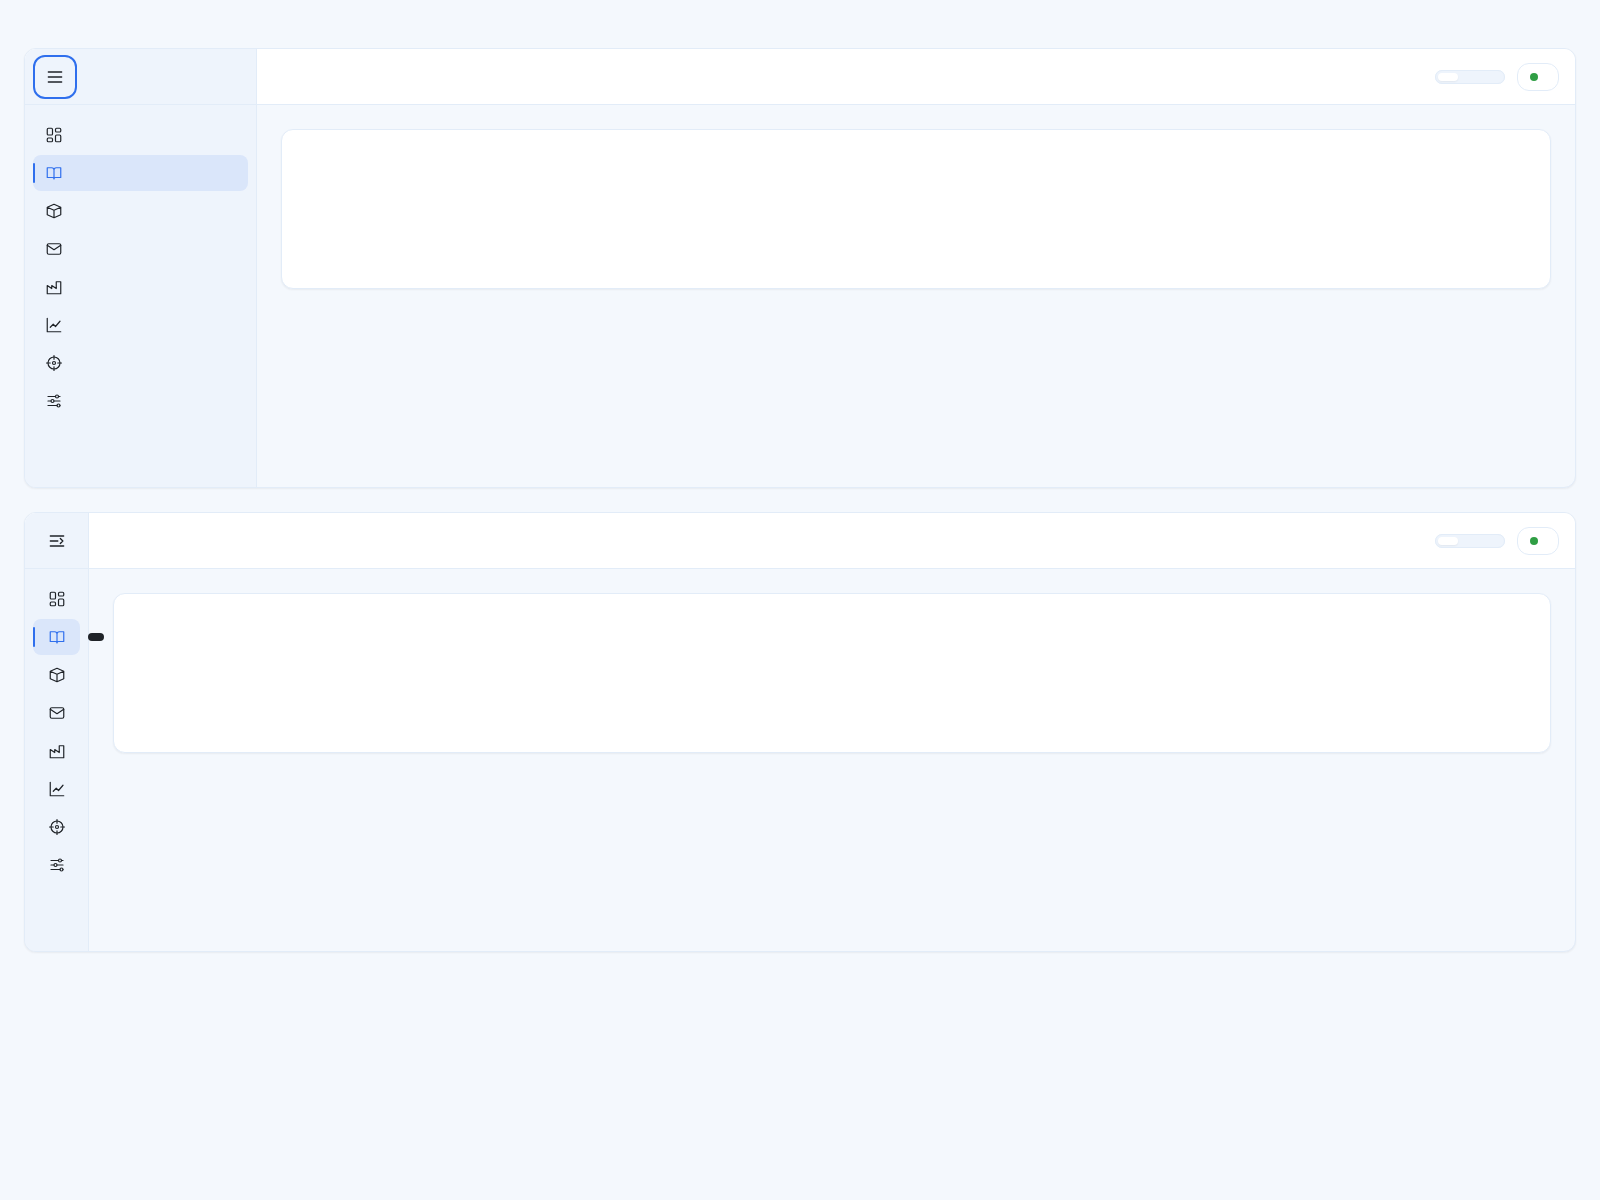
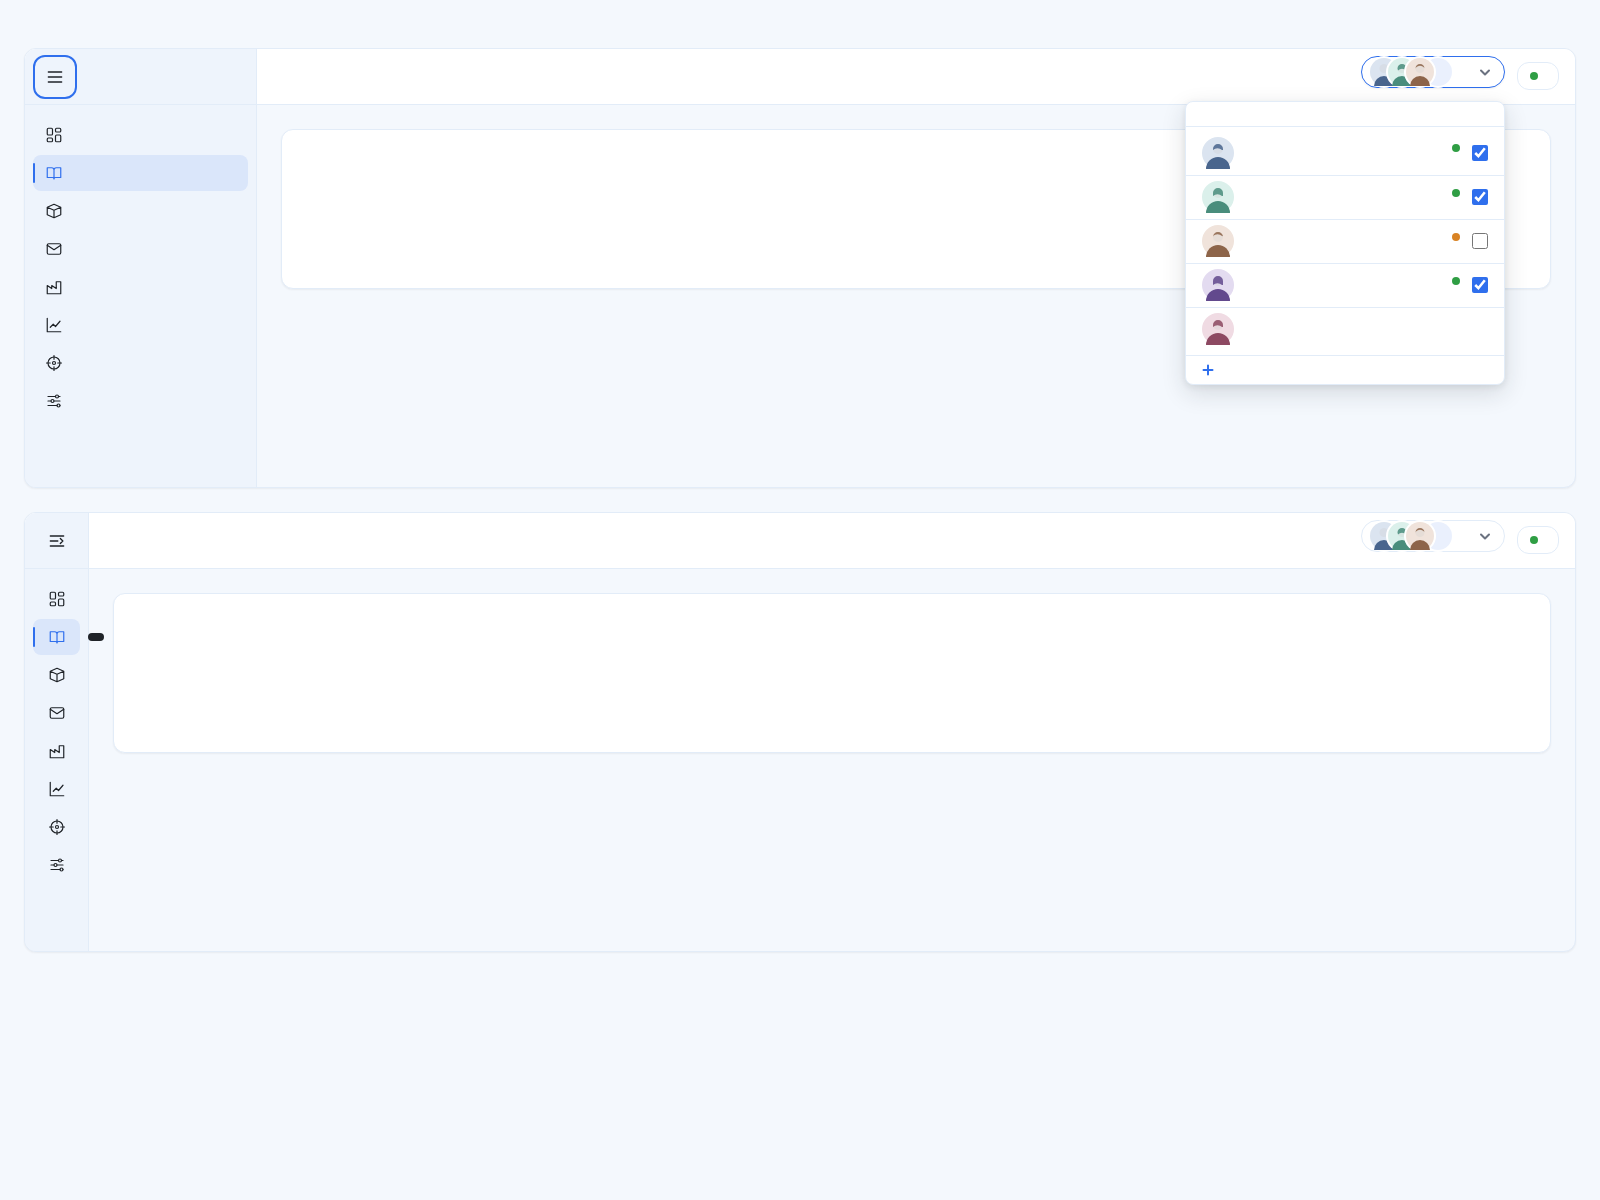
docs(design): character switcher with portraits in the light shell

diff --git a/docs/design/occc/app-shell.html b/docs/design/occc/app-shell.html
@@ -3,7 +3,7 @@
 <head>
 <meta charset="utf-8">
 <meta name="viewport" content="width=device-width, initial-scale=1">
-<title>OCCC · Application shell (s5-t1)</title>
+<title>OCCC · Application shell (s6-t1)</title>
 <!-- Light theme only, per owner (s5-t1). Custom properties mirror proposed token names; new ones are listed in the handoff. -->
 <style>
 :root{
@@ -15,6 +15,7 @@
   --color-primary-bg:color-mix(in srgb,var(--color-primary) 10%,transparent);
   --color-primary-bg-hover:color-mix(in srgb,var(--color-primary) 6%,transparent);
   --shadow-sm:0 1px 2px rgba(31,35,40,.06);
+  --shadow-panel:0 8px 24px rgba(31,35,40,.14),0 2px 6px rgba(31,35,40,.08);
   --radius-sm:4px; --radius-md:8px; --radius-lg:12px;
   --space-xxs:4px; --space-xs:8px; --space-sm:12px; --space-md:16px; --space-lg:24px; --space-xl:32px;
   --font-family:'Inter',system-ui,-apple-system,'Segoe UI',sans-serif;
@@ -49,17 +50,72 @@ body{margin:0;padding:var(--space-lg);background:var(--color-bg-layout);color:va
 .page-title{margin:0;font-size:16px;font-weight:600}
 .topbar-end{margin-left:auto;display:flex;align-items:center;gap:var(--space-sm)}
 
-.seg{display:inline-flex;gap:2px;margin:0;padding:2px;border:1px solid var(--color-border);border-radius:var(--radius-md);background:var(--color-bg-rail)}
-.seg input{position:absolute;opacity:0;width:1px;height:1px}
-.seg label{padding:var(--space-xxs) 10px;border-radius:var(--radius-sm);font-size:13px;font-weight:500;
-  color:var(--color-text-secondary);cursor:pointer;transition:background var(--motion-fast),color var(--motion-fast)}
-.seg label:hover{color:var(--color-primary-hover)}
-.seg input:checked+label{background:var(--color-bg-container);color:var(--color-text);box-shadow:var(--shadow-sm)}
-.seg input:focus-visible+label{outline:2px solid var(--color-primary);outline-offset:1px}
-
 .sync{display:inline-flex;align-items:center;gap:var(--space-xs);height:28px;padding:0 var(--space-sm);
   border:1px solid var(--color-border);border-radius:var(--radius-lg);background:var(--color-bg-container);font-size:13px}
 .sync-dot{width:8px;height:8px;border-radius:50%;background:var(--color-skill-learned)}
+
+/* Character switcher — button, portrait stack, panel */
+.cs{position:relative}
+.cs-btn{display:inline-flex;align-items:center;gap:var(--space-sm);height:32px;padding:0 var(--space-sm) 0 4px;
+  border:1px solid var(--color-border);border-radius:999px;background:var(--color-bg-container);cursor:pointer;
+  font:500 13px/1 var(--font-family);color:var(--color-text);transition:border-color var(--motion-fast)}
+.cs-btn:hover{border-color:var(--color-primary)}
+.cs-btn[aria-expanded="true"]{border-color:var(--color-primary);box-shadow:var(--shadow-sm)}
+.cs-stack{display:inline-flex;padding-left:4px}
+.cs-portrait{position:relative;width:28px;height:28px;border-radius:50%;flex:none;
+  background:var(--color-bg-container);box-shadow:0 0 0 2px var(--color-bg-container)}
+.cs-portrait svg{display:block;width:100%;height:100%}
+.cs-portrait+.cs-portrait{margin-left:-10px}
+.cs-overflow{display:inline-grid;place-items:center;height:28px;min-width:28px;margin-left:-10px;padding:0 7px;
+  border-radius:999px;background:var(--color-primary-bg);box-shadow:0 0 0 2px var(--color-bg-container);
+  color:var(--color-primary);font-size:11px;font-weight:600}
+.cs-label{display:inline-flex;flex-direction:column;line-height:1.25;text-align:left}
+.cs-scope{white-space:nowrap}
+.cs-scope .ru{font-weight:400}
+.cs-scope--subset .ru{color:var(--color-text)}
+.cs-count{display:block;color:var(--color-text-secondary);font-weight:400;font-size:11px}
+.cs-caret{width:14px;height:14px;stroke:var(--color-text-secondary);margin-left:2px}
+.cs-panel{position:absolute;top:calc(100% + var(--space-xxs));right:0;z-index:5;width:320px;
+  background:var(--color-bg-container);border:1px solid var(--color-border);border-radius:var(--radius-md);
+  box-shadow:var(--shadow-panel)}
+.cs-head{display:flex;align-items:baseline;gap:var(--space-xs);padding:var(--space-sm) var(--space-md);
+  border-bottom:1px solid var(--color-border);font-size:13px}
+.cs-head-title{font-weight:600;margin-right:auto}
+.cs-act{border:0;background:transparent;padding:0;font:500 13px/1.4 var(--font-family);color:var(--color-primary);
+  cursor:pointer;border-radius:var(--radius-sm)}
+.cs-act:hover{color:var(--color-primary-hover);text-decoration:underline}
+.cs-list{list-style:none;margin:0;padding:var(--space-xxs) 0}
+.cs-row{display:flex;align-items:center;gap:var(--space-sm);padding:var(--space-xxs) var(--space-md);min-height:44px}
+.cs-row+.cs-row{border-top:1px solid var(--color-border)}
+.cs-row .cs-portrait{width:32px;height:32px}
+.cs-name{margin-right:auto}
+.cs-row-name{font-weight:500;color:var(--color-text);line-height:1.3}
+.cs-row-corp{font-size:12px;color:var(--color-text-secondary)}
+.cs-row-state{position:relative;display:inline-block;flex:none}
+.cs-row-state::before{content:"";display:inline-block;width:8px;height:8px;border-radius:50%;background:var(--color-skill-learned)}
+.cs-row[data-character-state="stale"] .cs-row-state::before{background:var(--color-skill-next)}
+.cs-row[data-character-state="no-access"] .cs-row-state::before{background:var(--color-skill-unreachable)}
+.cs-row[data-character-state="no-access"] .cs-row-name{color:var(--color-text-secondary)}
+.cs-reason{margin-right:auto;padding-top:2px}
+.cs-reason code{font-family:var(--font-mono);font-size:11px;color:var(--color-skill-unreachable);word-break:break-all}
+.cs-grant{border:0;background:transparent;padding:0;font:500 13px/1.4 var(--font-family);color:var(--color-primary);
+  cursor:pointer;border-radius:var(--radius-sm)}
+.cs-grant:hover{color:var(--color-primary-hover);text-decoration:underline}
+.cs-check{display:inline-grid;place-items:center;width:16px;height:16px;flex:none}
+.cs-check input{margin:0;width:16px;height:16px;accent-color:var(--color-primary);cursor:pointer}
+.cs-check--disabled input{cursor:not-allowed;opacity:.5}
+.cs-foot{display:flex;justify-content:flex-start;padding:var(--space-xs) var(--space-md);border-top:1px solid var(--color-border)}
+.cs-add{display:inline-flex;align-items:center;gap:var(--space-xxs);border:0;background:transparent;padding:0;
+  font:500 13px/1.4 var(--font-family);color:var(--color-primary);cursor:pointer;border-radius:var(--radius-sm)}
+.cs-add:hover{color:var(--color-primary-hover);text-decoration:underline}
+.cs-add svg{width:12px;height:12px}
+
+/* Portraits — inline SVG, two tones of one hue, deterministic per character */
+.p-avatar{border-radius:50%;overflow:hidden}
+.p-bg{fill:var(--p-bg)}
+.p-fg{fill:var(--p-fg)}
+.p-hair{fill:var(--p-fg);opacity:.85}
+.p-skin{fill:color-mix(in srgb,var(--p-fg) 22%,#fff)}
 
 .rail{background:var(--color-bg-rail);border-right:1px solid var(--color-border);padding:var(--space-sm) var(--space-xs)}
 .rail ul{list-style:none;margin:0;padding:0;display:flex;flex-direction:column;gap:2px}
@@ -102,11 +158,13 @@ body{margin:0;padding:var(--space-lg);background:var(--color-bg-layout);color:va
   </defs>
 </svg>
 <style>svg use{fill:none;stroke:currentColor;stroke-width:1.6;stroke-linecap:round;stroke-linejoin:round}
-.burger svg,.nav-item svg{fill:none;stroke:currentColor;stroke-width:1.6;stroke-linecap:round;stroke-linejoin:round}</style>
+.burger svg,.nav-item svg{fill:none;stroke:currentColor;stroke-width:1.6;stroke-linecap:round;stroke-linejoin:round}
+.cs-caret{fill:none;stroke-linecap:round;stroke-linejoin:round;stroke-width:2}
+.cs-add svg{stroke:currentColor;stroke-width:2;stroke-linecap:round;stroke-linejoin:round;fill:none}</style>
 
 <h1 class="spec-title">Application shell · Оболочка приложения</h1>
 
-<p class="caption">1 · data-nav="expanded" — 232 px rail, burger shown with its focus ring</p>
+<p class="caption">1 · data-nav="expanded" — 232 px rail, burger shown with its focus ring, switcher open on the character panel</p>
 <div class="shell" data-component="AppShell">
   <header class="topbar" data-component="TopBar">
     <div class="brand">
@@ -116,12 +174,78 @@ body{margin:0;padding:var(--space-lg);background:var(--color-bg-layout);color:va
     </div>
     <h2 class="page-title">Skill plan · <span class="ru" lang="ru">План обучения</span></h2>
     <div class="topbar-end">
-      <fieldset class="seg" data-component="CharacterSwitcher">
-        <legend class="sr-only">Characters · <span lang="ru">Персонажи</span></legend>
-        <input type="radio" id="cs1-all" name="cs1" checked><label for="cs1-all">All · <span lang="ru">Все</span></label>
-        <input type="radio" id="cs1-sub" name="cs1"><label for="cs1-sub">Subset · <span lang="ru">Выбор</span></label>
-        <input type="radio" id="cs1-one" name="cs1"><label for="cs1-one">One · <span lang="ru">Один</span></label>
-      </fieldset>
+      <div class="cs" data-component="CharacterSwitcher">
+        <button class="cs-btn" type="button" aria-expanded="true" aria-controls="cs-panel-1">
+          <span class="cs-stack" aria-hidden="true">
+            <span class="cs-portrait"><svg data-component="CharacterPortrait" data-portrait="Kadir Aylin" viewBox="0 0 28 28" style="--p-bg:#dbe4f0;--p-fg:#49658d"><circle class="p-bg" cx="14" cy="14" r="14"/><path class="p-fg" d="M4 28a10 10 0 0 1 20 0z"/><circle class="p-skin" cx="14" cy="10.5" r="4.5"/></svg></span>
+            <span class="cs-portrait"><svg data-component="CharacterPortrait" data-portrait="Saya Okamoto" viewBox="0 0 28 28" style="--p-bg:#dbf0eb;--p-fg:#498d7c"><circle class="p-bg" cx="14" cy="14" r="14"/><path class="p-fg" d="M4 28a10 10 0 0 1 20 0z"/><circle class="p-skin" cx="14" cy="10.5" r="4.5"/><path class="p-hair" d="M9.5 10.5a4.5 4.5 0 0 1 9 0v2H18a5.5 5.5 0 0 0-8 0z"/></svg></span>
+            <span class="cs-portrait"><svg data-component="CharacterPortrait" data-portrait="Marcus Vane" viewBox="0 0 28 28" style="--p-bg:#f0e3db;--p-fg:#8d6449"><circle class="p-bg" cx="14" cy="14" r="14"/><path class="p-fg" d="M4 28a10 10 0 0 1 20 0z"/><circle class="p-skin" cx="14" cy="10.5" r="4.5"/><path class="p-hair" d="M9.5 10.5a4.5 4.5 0 0 1 9 0v-1H18a5.5 5.5 0 0 0-8 0z"/></svg></span>
+            <span class="cs-overflow num" aria-hidden="true">+2</span>
+          </span>
+          <span class="cs-label">
+            <span class="cs-scope">All characters · <span class="ru" lang="ru">Все персонажи</span></span>
+            <span class="cs-count num" aria-hidden="true">5 of 5</span>
+          </span>
+          <svg class="cs-caret" viewBox="0 0 14 14" aria-hidden="true"><path d="M3 5.5 7 9.5l4-4"/></svg>
+        </button>
+        <div class="cs-panel" id="cs-panel-1" role="group" aria-label="Characters · Персонажи">
+          <div class="cs-head">
+            <span class="cs-head-title">Characters · <span class="ru" lang="ru">Персонажи</span></span>
+            <button class="cs-act" type="button">all</button>
+            <button class="cs-act" type="button">none</button>
+          </div>
+          <ul class="cs-list">
+            <li class="cs-row" data-component="CharacterRow" data-character-state="synced">
+              <span class="cs-portrait"><svg data-component="CharacterPortrait" data-portrait="Kadir Aylin" viewBox="0 0 32 32" style="--p-bg:#dbe4f0;--p-fg:#49658d"><circle class="p-bg" cx="16" cy="16" r="16"/><path class="p-fg" d="M4 32a12 12 0 0 1 24 0z"/><circle class="p-skin" cx="16" cy="12" r="5"/><path class="p-hair" d="M11 12a5 5 0 0 1 10 0v1H20a6.5 6.5 0 0 0-9 0z"/></svg></span>
+              <span class="cs-name">
+                <span class="cs-row-name">Kadir Aylin</span>
+                <span class="cs-row-corp">KAD</span>
+              </span>
+              <span class="cs-row-state" title="synced · синхронизирован" aria-hidden="true"></span>
+              <span class="cs-check"><input type="checkbox" aria-label="Select Kadir Aylin" checked></span>
+            </li>
+            <li class="cs-row" data-component="CharacterRow" data-character-state="synced">
+              <span class="cs-portrait"><svg data-component="CharacterPortrait" data-portrait="Saya Okamoto" viewBox="0 0 32 32" style="--p-bg:#dbf0eb;--p-fg:#498d7c"><circle class="p-bg" cx="16" cy="16" r="16"/><path class="p-fg" d="M4 32a12 12 0 0 1 24 0z"/><circle class="p-skin" cx="16" cy="12" r="5"/><path class="p-hair" d="M11 12a5 5 0 0 1 10 0v3H20a6.5 6.5 0 0 0-9 0z"/></svg></span>
+              <span class="cs-name">
+                <span class="cs-row-name">Saya Okamoto</span>
+                <span class="cs-row-corp">OKM</span>
+              </span>
+              <span class="cs-row-state" title="synced · синхронизирован" aria-hidden="true"></span>
+              <span class="cs-check"><input type="checkbox" aria-label="Select Saya Okamoto" checked></span>
+            </li>
+            <li class="cs-row" data-component="CharacterRow" data-character-state="stale">
+              <span class="cs-portrait"><svg data-component="CharacterPortrait" data-portrait="Marcus Vane" viewBox="0 0 32 32" style="--p-bg:#f0e3db;--p-fg:#8d6449"><circle class="p-bg" cx="16" cy="16" r="16"/><path class="p-fg" d="M4 32a12 12 0 0 1 24 0z"/><circle class="p-skin" cx="16" cy="12" r="5"/><path class="p-hair" d="M11 12a5 5 0 0 1 10 0v-1H20a6.5 6.5 0 0 0-9 0z"/></svg></span>
+              <span class="cs-name">
+                <span class="cs-row-name">Marcus Vane</span>
+                <span class="cs-row-corp">VNA</span>
+              </span>
+              <span class="cs-row-state" title="stale · устарел" aria-hidden="true"></span>
+              <span class="cs-check"><input type="checkbox" aria-label="Select Marcus Vane"></span>
+            </li>
+            <li class="cs-row" data-component="CharacterRow" data-character-state="synced">
+              <span class="cs-portrait"><svg data-component="CharacterPortrait" data-portrait="Elin Drako" viewBox="0 0 32 32" style="--p-bg:#e3dbf0;--p-fg:#62498d"><circle class="p-bg" cx="16" cy="16" r="16"/><path class="p-fg" d="M4 32a12 12 0 0 1 24 0z"/><circle class="p-skin" cx="16" cy="12" r="5"/><path class="p-hair" d="M11 12a5 5 0 0 1 10 0v4H20a6.5 6.5 0 0 0-9 0z"/></svg></span>
+              <span class="cs-name">
+                <span class="cs-row-name">Elin Drako</span>
+                <span class="cs-row-corp">DRK</span>
+              </span>
+              <span class="cs-row-state" title="synced · синхронизирован" aria-hidden="true"></span>
+              <span class="cs-check"><input type="checkbox" aria-label="Select Elin Drako" checked></span>
+            </li>
+            <li class="cs-row" data-component="CharacterRow" data-character-state="no-access">
+              <span class="cs-portrait"><svg data-component="CharacterPortrait" data-portrait="Rei Tanaka" viewBox="0 0 32 32" style="--p-bg:#f0dbe3;--p-fg:#8d4962"><circle class="p-bg" cx="16" cy="16" r="16"/><path class="p-fg" d="M4 32a12 12 0 0 1 24 0z"/><circle class="p-skin" cx="16" cy="12" r="5"/><path class="p-hair" d="M11 12a5 5 0 0 1 10 0v2H20a6.5 6.5 0 0 0-9 0z"/></svg></span>
+              <span class="cs-name">
+                <span class="cs-row-name">Rei Tanaka</span>
+                <span class="cs-row-corp">TNK</span>
+              </span>
+              <span class="cs-reason">missing scope <code>esi-skills.read_skills.v1</code></span>
+              <button class="cs-grant" type="button">grant</button>
+            </li>
+          </ul>
+          <div class="cs-foot">
+            <button class="cs-add" type="button"><svg viewBox="0 0 12 12" aria-hidden="true"><path d="M6 1.5v9M1.5 6h9"/></svg>Add character · <span class="ru" lang="ru">Добавить персонажа</span></button>
+          </div>
+        </div>
+      </div>
       <span class="sync" data-component="SyncBadge" role="status">
         <span class="sync-dot" aria-hidden="true"></span>
         <span>synced <time class="num" datetime="PT4M">4</time> min ago · <span class="ru" lang="ru">обновлено <span class="num">4</span> мин назад</span></span>
@@ -143,7 +267,7 @@ body{margin:0;padding:var(--space-lg);background:var(--color-bg-layout);color:va
   <main class="content"><div class="card">Page content slot · <span lang="ru">Область страницы</span></div></main>
 </div>
 
-<p class="caption">2 · data-nav="collapsed" — 64 px rail, icons only, tooltip pinned on "Skills" for review</p>
+<p class="caption">2 · data-nav="collapsed" — 64 px rail, icons only, tooltip pinned on "Skills" for review, switcher in subset state</p>
 <div class="shell shell--collapsed" data-component="AppShell">
   <header class="topbar" data-component="TopBar">
     <div class="brand">
@@ -152,12 +276,21 @@ body{margin:0;padding:var(--space-lg);background:var(--color-bg-layout);color:va
     </div>
     <h2 class="page-title">Skill plan · <span class="ru" lang="ru">План обучения</span></h2>
     <div class="topbar-end">
-      <fieldset class="seg" data-component="CharacterSwitcher">
-        <legend class="sr-only">Characters · <span lang="ru">Персонажи</span></legend>
-        <input type="radio" id="cs2-all" name="cs2" checked><label for="cs2-all">All · <span lang="ru">Все</span></label>
-        <input type="radio" id="cs2-sub" name="cs2"><label for="cs2-sub">Subset · <span lang="ru">Выбор</span></label>
-        <input type="radio" id="cs2-one" name="cs2"><label for="cs2-one">One · <span lang="ru">Один</span></label>
-      </fieldset>
+      <div class="cs" data-component="CharacterSwitcher">
+        <button class="cs-btn" type="button" aria-expanded="false" aria-controls="cs-panel-2">
+          <span class="cs-stack" aria-hidden="true">
+            <span class="cs-portrait"><svg data-component="CharacterPortrait" data-portrait="Kadir Aylin" viewBox="0 0 28 28" style="--p-bg:#dbe4f0;--p-fg:#49658d"><circle class="p-bg" cx="14" cy="14" r="14"/><path class="p-fg" d="M4 28a10 10 0 0 1 20 0z"/><circle class="p-skin" cx="14" cy="10.5" r="4.5"/></svg></span>
+            <span class="cs-portrait"><svg data-component="CharacterPortrait" data-portrait="Saya Okamoto" viewBox="0 0 28 28" style="--p-bg:#dbf0eb;--p-fg:#498d7c"><circle class="p-bg" cx="14" cy="14" r="14"/><path class="p-fg" d="M4 28a10 10 0 0 1 20 0z"/><circle class="p-skin" cx="14" cy="10.5" r="4.5"/><path class="p-hair" d="M9.5 10.5a4.5 4.5 0 0 1 9 0v2H18a5.5 5.5 0 0 0-8 0z"/></svg></span>
+            <span class="cs-portrait"><svg data-component="CharacterPortrait" data-portrait="Marcus Vane" viewBox="0 0 28 28" style="--p-bg:#f0e3db;--p-fg:#8d6449"><circle class="p-bg" cx="14" cy="14" r="14"/><path class="p-fg" d="M4 28a10 10 0 0 1 20 0z"/><circle class="p-skin" cx="14" cy="10.5" r="4.5"/><path class="p-hair" d="M9.5 10.5a4.5 4.5 0 0 1 9 0v-1H18a5.5 5.5 0 0 0-8 0z"/></svg></span>
+            <span class="cs-overflow num" aria-hidden="true">+2</span>
+          </span>
+          <span class="cs-label">
+            <span class="cs-scope cs-scope--subset"><span class="num">2 of 5</span> · <span class="ru" lang="ru">из 5</span></span>
+            <span class="cs-count num" aria-hidden="true">selected</span>
+          </span>
+          <svg class="cs-caret" viewBox="0 0 14 14" aria-hidden="true"><path d="M3 5.5 7 9.5l4-4"/></svg>
+        </button>
+      </div>
       <span class="sync" data-component="SyncBadge" role="status">
         <span class="sync-dot" aria-hidden="true"></span>
         <span>synced <time class="num" datetime="PT4M">4</time> min ago · <span class="ru" lang="ru">обновлено <span class="num">4</span> мин назад</span></span>
